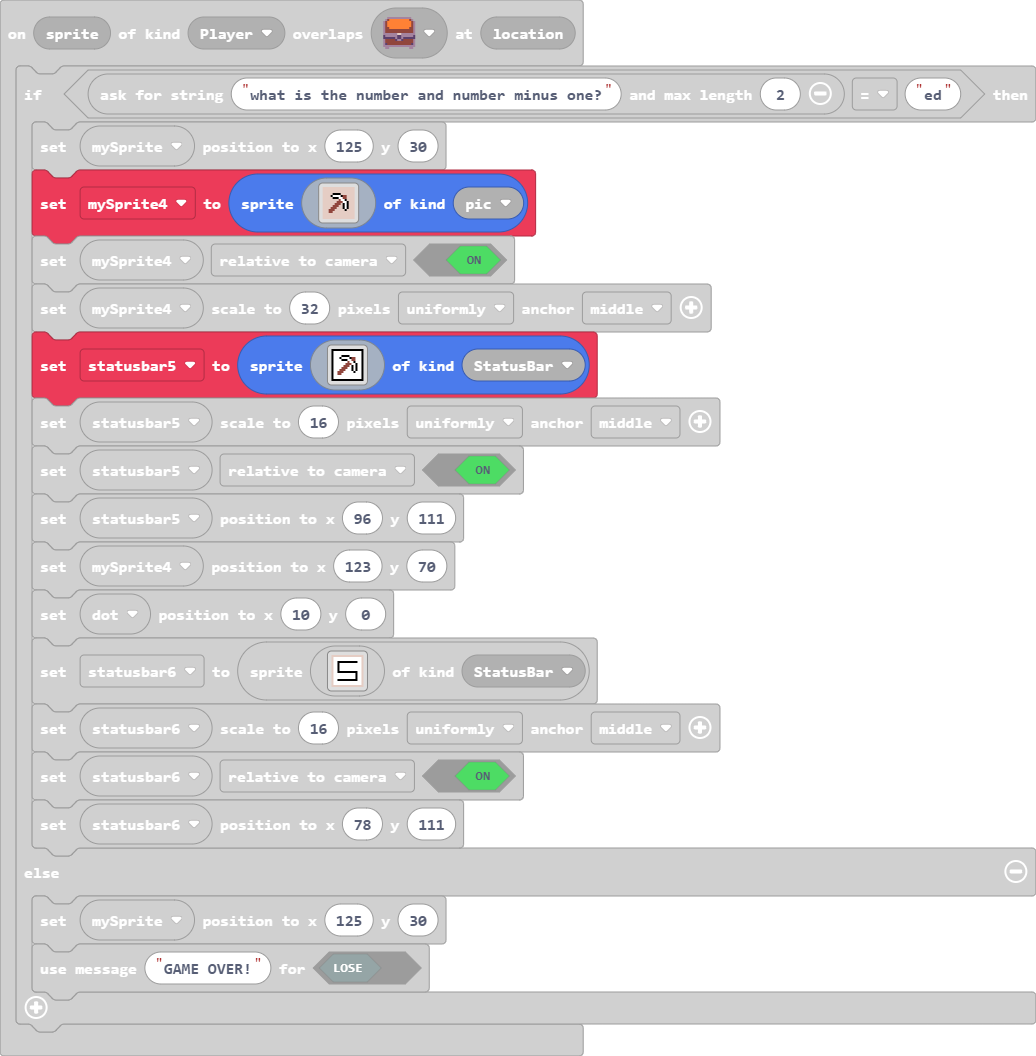
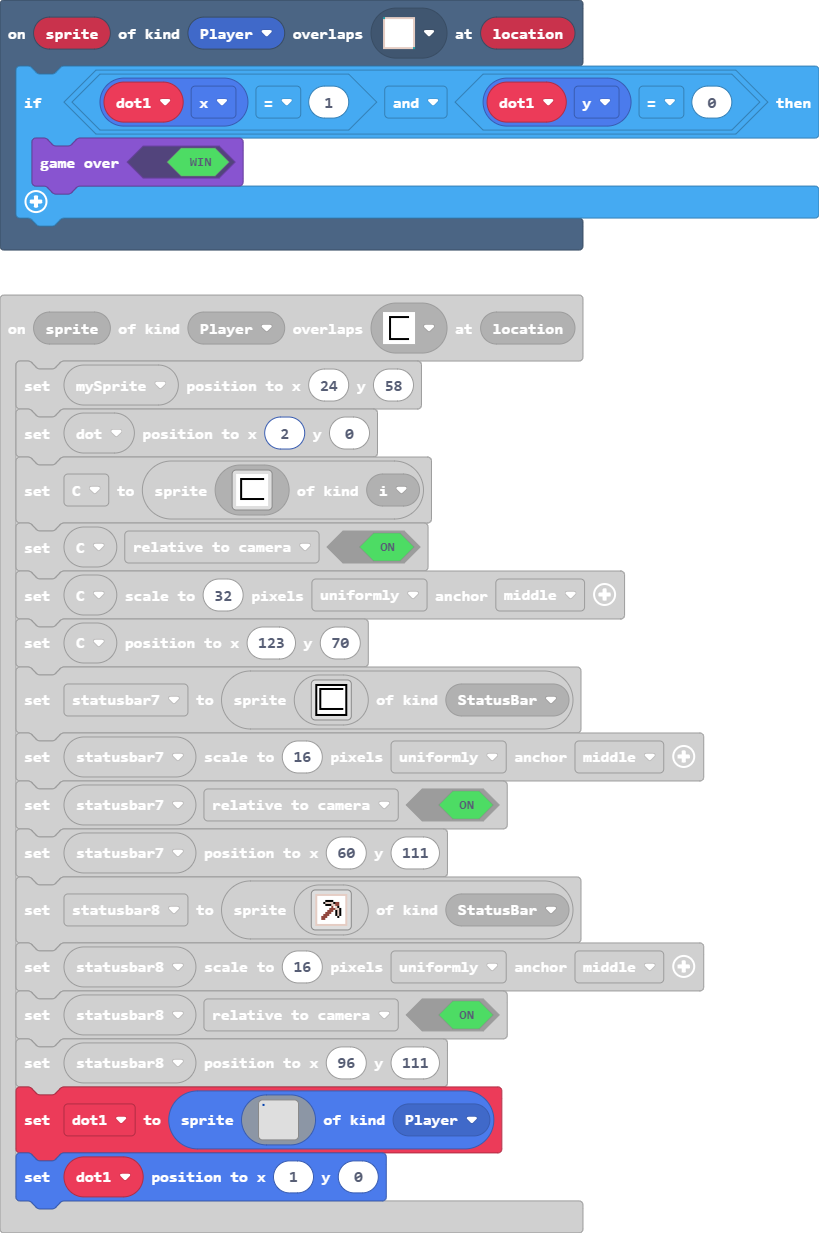
Update main.blocks, main.ts, tilemap.g.jres, tilemap.g.ts

diff --git a/tilemap.g.ts b/tilemap.g.ts
@@ -180,25 +180,6 @@ namespace myTiles {
 2..............2....................................................................................
 2222222222222222....................................................................................
 `, [myTiles.transparency16,sprites.dungeon.floorLight2,myTiles.tile1,myTiles.tile2,myTiles.tile4,sprites.dungeon.floorLight5,myTiles.tile5,myTiles.tile6,myTiles.tile7], TileScale.Sixteen);
-            case "level4":
-            case "level4":return tiles.createTilemap(hex`1000100000000000000001030303010000000000000000000000010000000100000000000000000000000100000001000000000000000000000006060000010000000000000000000000010000000100000000000000000000000100000001000000000000000000000001000004040000000000020000000000010000000100000000000000000000000100000001000000000000000000000001000000010000000000000000000000010000000100000000000000000000000505000001000000000000000000000001000000010000000000000000000000010000000100000000000000000000000100000001000000000000000000000001030303010000000000`, img`
-. . . . . . 2 . . . 2 . . . . . 
-. . . . . . 2 . . . 2 . . . . . 
-. . . . . . 2 . . . 2 . . . . . 
-. . . . . . 2 . . . 2 . . . . . 
-. . . . . . 2 . . . 2 . . . . . 
-. . . . . . 2 . . . 2 . . . . . 
-. . . . . . 2 . . . 2 . . . . . 
-. . . . . . 2 . . . 2 . . . . . 
-. . . . . . 2 . . . 2 . . . . . 
-. . . . . . 2 . . . 2 . . . . . 
-. . . . . . 2 . . . 2 . . . . . 
-. . . . . . 2 . . . 2 . . . . . 
-. . . . . . 2 . . . 2 . . . . . 
-. . . . . . 2 . . . 2 . . . . . 
-. . . . . . 2 . . . 2 . . . . . 
-. . . . . . 2 . . . 2 . . . . . 
-`, [myTiles.transparency16,sprites.dungeon.floorLight2,myTiles.tile8,myTiles.tile11,sprites.dungeon.chestClosed,myTiles.tile3,myTiles.tile9], TileScale.Sixteen);
             case "level10":
             case "level10":return tiles.createTilemap(hex`1000100000000000000000000000000000000000000000000000000000000000000000000000000000000000000000000000000000000000000000000000000000000000000000000000000000000000000000000000000000000000000000000000000000000000000000000000000000000000000000000000000000000000000000000000000000000000000000000000000000000000000000000000000000000000000000000000000000000000000000000000000000000000000000000000000000000000000000000000000000000000000000000000000000000000000000000000000000000000000000000000000000000000000000000000000000000000`, img`
 . . . . . . . . . . . . . . . . 
@@ -275,6 +256,44 @@ namespace myTiles {
 . . . . . . . . . . . . . . . . 
 . . . . . . . . . . . . . . . . 
 `, [myTiles.transparency16], TileScale.Sixteen);
+            case "level14":
+            case "level14":return tiles.createTilemap(hex`1000100000000000000000000000000000000000000000000000000000000000000000000000000000000000000000000000000000000000000000000000000000000000000000000000000000000000000000000000000000000000000000000000000000000000000000000000000000000000000000000000000000000000000000000000000000000000000000000000000000000000000000000000000000000000000000000000000000000000000000000000000000000000000000000000000000000000000000000000000000000000000000000000000000000000000000000000000000000000000000000000000000000000000000000000000000000000`, img`
+. . . . . . . . . . . . . . . . 
+. . . . . . . . . . . . . . . . 
+. . . . . . . . . . . . . . . . 
+. . . . . . . . . . . . . . . . 
+. . . . . . . . . . . . . . . . 
+. . . . . . . . . . . . . . . . 
+. . . . . . . . . . . . . . . . 
+. . . . . . . . . . . . . . . . 
+. . . . . . . . . . . . . . . . 
+. . . . . . . . . . . . . . . . 
+. . . . . . . . . . . . . . . . 
+. . . . . . . . . . . . . . . . 
+. . . . . . . . . . . . . . . . 
+. . . . . . . . . . . . . . . . 
+. . . . . . . . . . . . . . . . 
+. . . . . . . . . . . . . . . . 
+`, [myTiles.transparency16], TileScale.Sixteen);
+            case "level4":
+            case "level4":return tiles.createTilemap(hex`1000100000000001030303030303010000000000000000010000000000000100000000000000000505000000000001000000000000000001000000000000010000000000000000010000000000000100000000000000000100000000000001000000000000000001000000000004040000000000020000010000000000000100000000000000000100000000000001000000000000000001000000000000010000000000000000010000000000000100000000000000000100000000000001000000000000000001000000000000010000000000000000010000000000000100000000000000000606000000000001000000000000000001030303030303010000000000`, img`
+. . . 2 . . . . . . 2 . . . . . 
+. . . 2 . . . . . . 2 . . . . . 
+. . . 2 . . . . . . 2 . . . . . 
+. . . 2 . . . . . . 2 . . . . . 
+. . . 2 . . . . . . 2 . . . . . 
+. . . 2 . . . . . . 2 . . . . . 
+. . . 2 . . . . . . 2 . . . . . 
+. . . 2 . . . . . . 2 . . . . . 
+. . . 2 . . . . . . 2 . . . . . 
+. . . 2 . . . . . . 2 . . . . . 
+. . . 2 . . . . . . 2 . . . . . 
+. . . 2 . . . . . . 2 . . . . . 
+. . . 2 . . . . . . 2 . . . . . 
+. . . 2 . . . . . . 2 . . . . . 
+. . . 2 . . . . . . 2 . . . . . 
+. . . 2 . . . . . . 2 . . . . . 
+`, [myTiles.transparency16,sprites.dungeon.floorLight2,myTiles.tile8,myTiles.tile11,sprites.dungeon.chestClosed,myTiles.tile3,myTiles.tile9], TileScale.Sixteen);
         }
         return null;
     })

diff --git a/main.ts b/main.ts
@@ -86,6 +86,11 @@ scene.onOverlapTile(SpriteKind.Player, assets.tile`myTile`, function (sprite, lo
 controller.A.onEvent(ControllerButtonEvent.Pressed, function () {
     Render.jumpWithHeightAndDuration(mySprite, 16, 500)
 })
+scene.onOverlapTile(SpriteKind.Player, assets.tile`myTile7`, function (sprite, location) {
+    if (dot1.x == 1 && dot1.y == 0) {
+        game.gameOver(true)
+    }
+})
 scene.onOverlapTile(SpriteKind.Player, assets.tile`myTile4`, function (sprite, location) {
     mySprite.setFlag(SpriteFlag.GhostThroughWalls, false)
 })
@@ -166,7 +171,7 @@ scene.onOverlapTile(SpriteKind.Player, sprites.dungeon.chestClosed, function (sp
 })
 scene.onOverlapTile(SpriteKind.Player, assets.tile`myTile2`, function (sprite, location) {
     mySprite.setPosition(24, 58)
-    dot.setPosition(11, 0)
+    dot.setPosition(2, 0)
     C = sprites.create(img`
         1 1 1 1 1 1 1 1 1 1 1 1 1 1 1 1 
         1 1 1 1 1 1 1 1 1 1 1 1 1 1 1 1 
@@ -230,6 +235,25 @@ scene.onOverlapTile(SpriteKind.Player, assets.tile`myTile2`, function (sprite, l
     scaling.scaleToPixels(statusbar8, 16, ScaleDirection.Uniformly, ScaleAnchor.Middle)
     statusbar8.setFlag(SpriteFlag.RelativeToCamera, true)
     statusbar8.setPosition(96, 111)
+    dot1 = sprites.create(img`
+        8 . . . . . . . . . . . . . . . 
+        . . . . . . . . . . . . . . . . 
+        . . . . . . . . . . . . . . . . 
+        . . . . . . . . . . . . . . . . 
+        . . . . . . . . . . . . . . . . 
+        . . . . . . . . . . . . . . . . 
+        . . . . . . . . . . . . . . . . 
+        . . . . . . . . . . . . . . . . 
+        . . . . . . . . . . . . . . . . 
+        . . . . . . . . . . . . . . . . 
+        . . . . . . . . . . . . . . . . 
+        . . . . . . . . . . . . . . . . 
+        . . . . . . . . . . . . . . . . 
+        . . . . . . . . . . . . . . . . 
+        . . . . . . . . . . . . . . . . 
+        . . . . . . . . . . . . . . . . 
+        `, SpriteKind.Player)
+    dot1.setPosition(1, 0)
 })
 controller.menu.onEvent(ControllerButtonEvent.Pressed, function () {
     Render.moveWithController(2, 2, 2)
@@ -283,6 +307,7 @@ let C: Sprite = null
 let statusbar6: Sprite = null
 let statusbar5: Sprite = null
 let mySprite4: Sprite = null
+let dot1: Sprite = null
 let statusbar2: Sprite = null
 let mySprite2: Sprite = null
 let dot: Sprite = null
